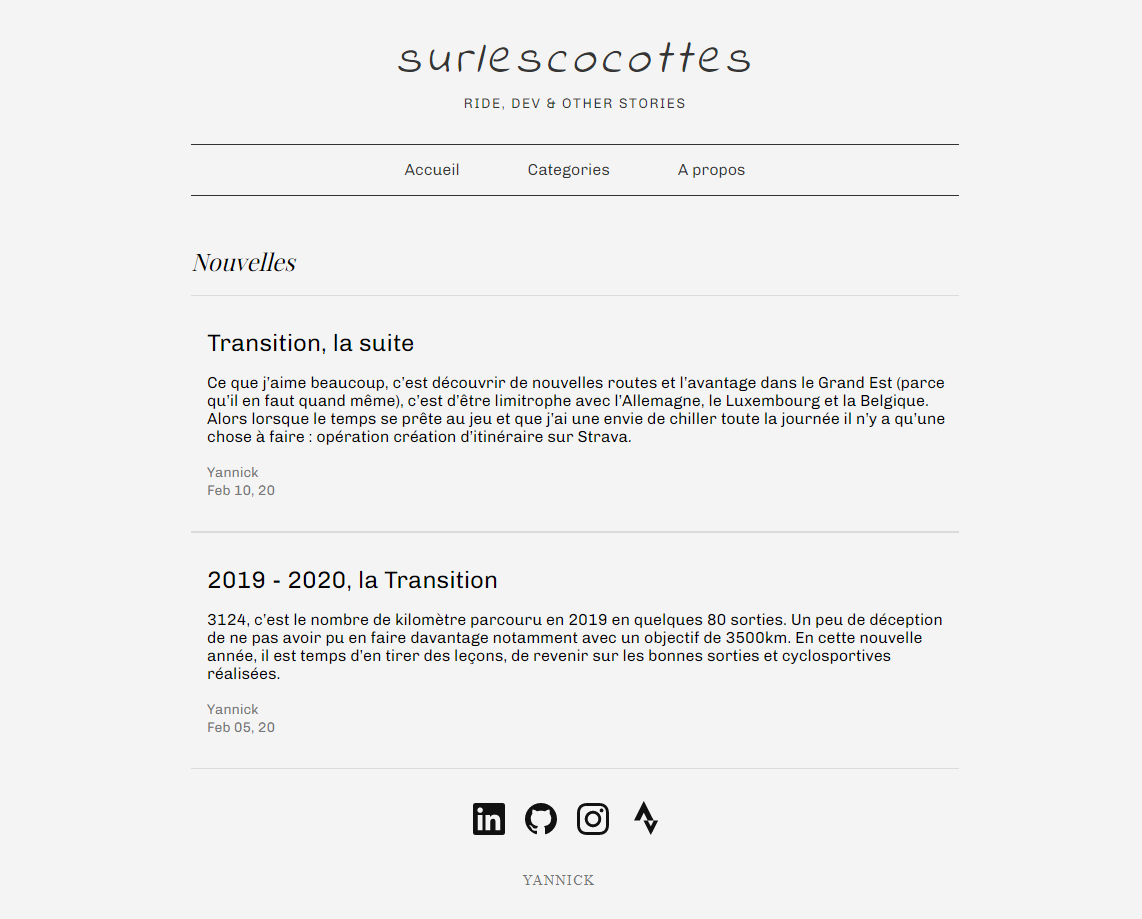
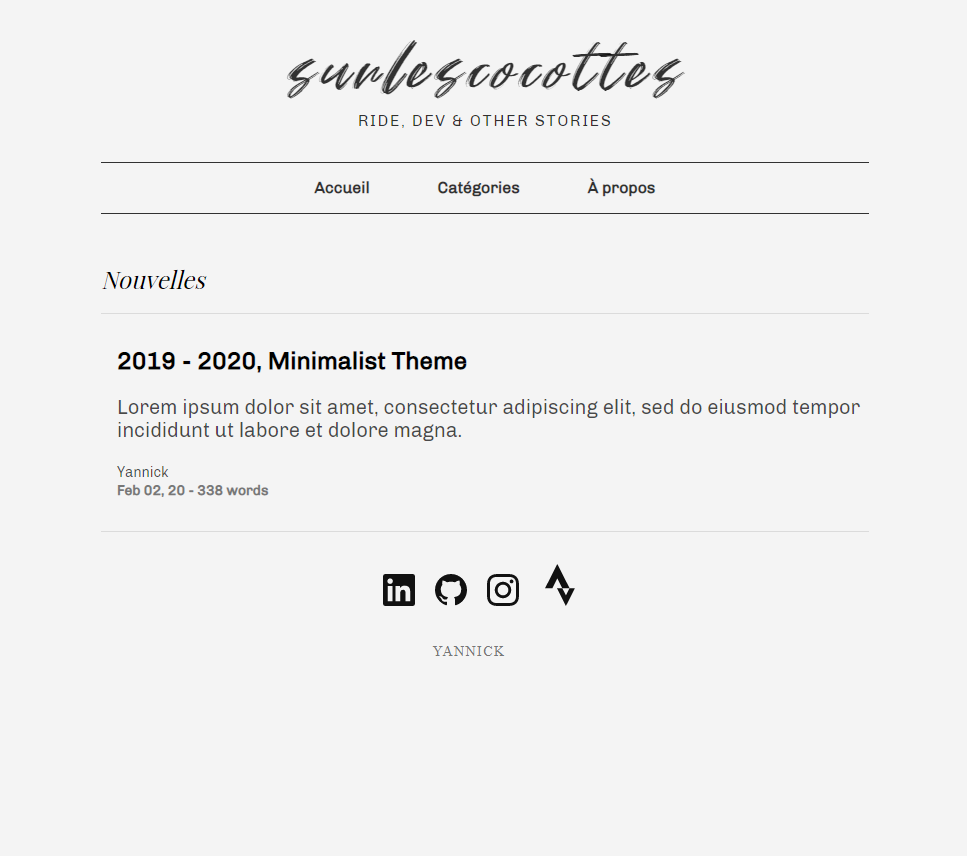
Change font family for brand title

diff --git a/assets/css/styles.scss b/assets/css/styles.scss
@@ -2,7 +2,7 @@
 ---
 @import url('https://fonts.googleapis.com/css?family=Chivo|Playfair+Display|Indie+Flower&display=swap');
 @font-face {
-    font-family: sketch;
-    src: url('/assets/fonts/sketch.woff');
+    font-family: stefont;
+    src: url('/assets/fonts/stefont.woff');
   }
 @import "main";

diff --git a/_sass/main.scss b/_sass/main.scss
@@ -4,8 +4,7 @@ html{
 }
 
 .brand-title {
-    /* font-family: 'Indie Flower', cursive; */
-    font-family: 'sketch';
+    font-family: 'stefont';
 }
 
 @media screen and (min-width: 30em) {

diff --git a/_posts/2020-02-02-transition.md b/_posts/2020-02-02-transition.md
@@ -2,7 +2,7 @@
 layout: post
 author: Yannick
 categories: [blog, story]
-title: 2019 - 2020, transition
+title: 2019 - 2020, Minimalist Theme
 comments: true
 ---
 
